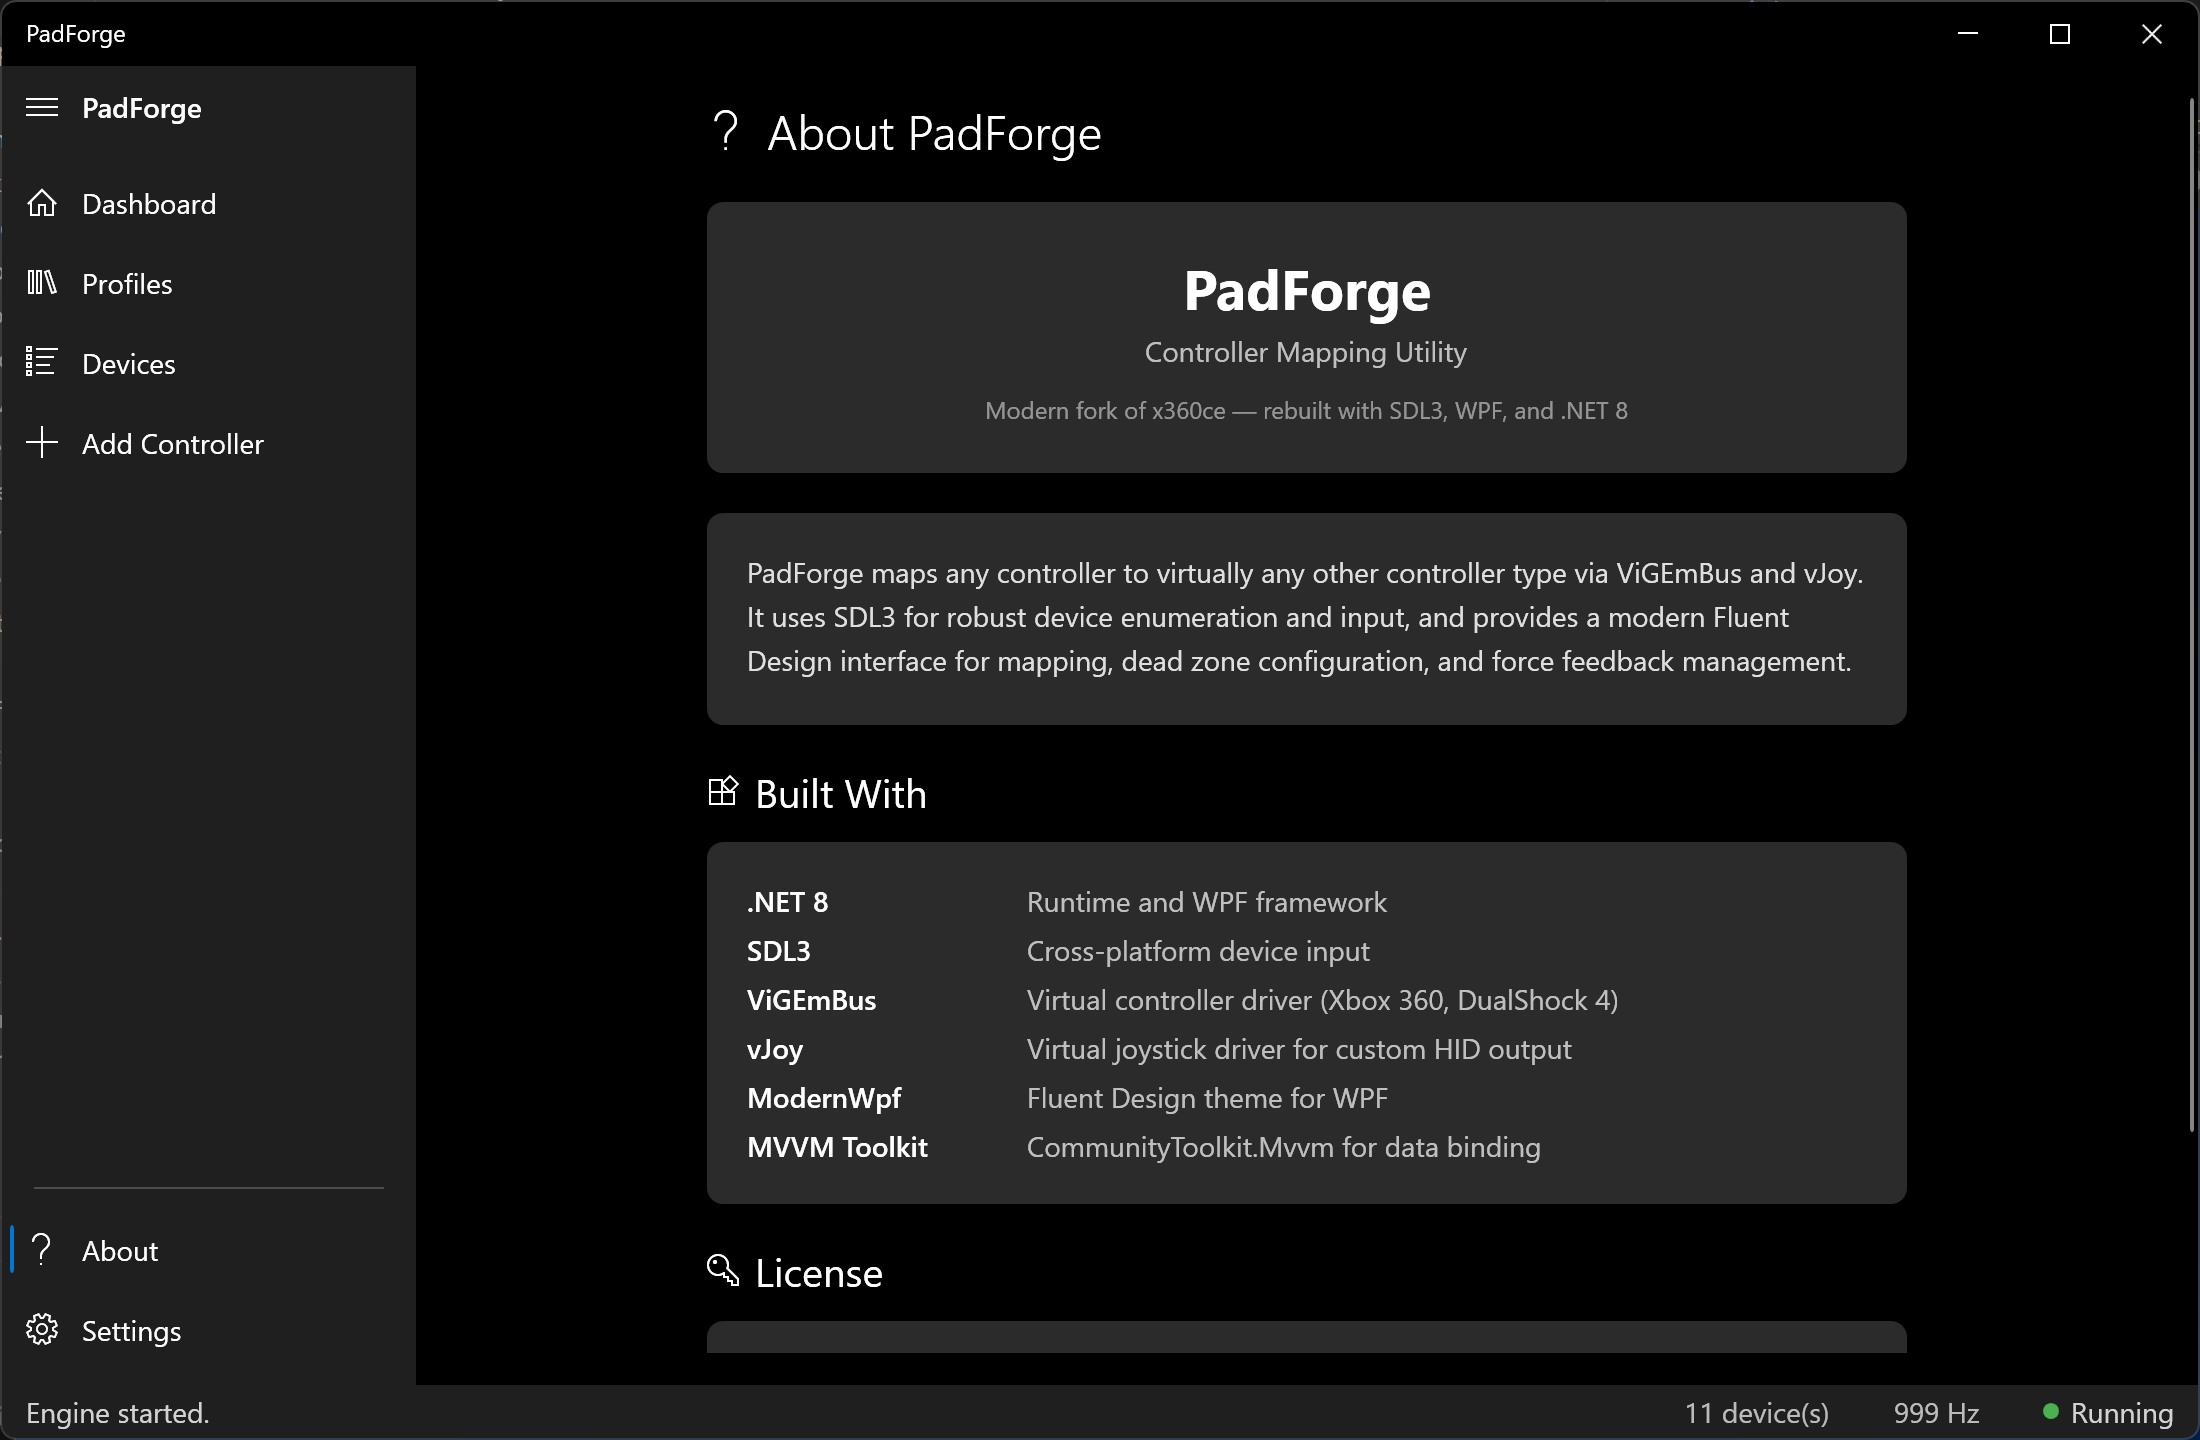
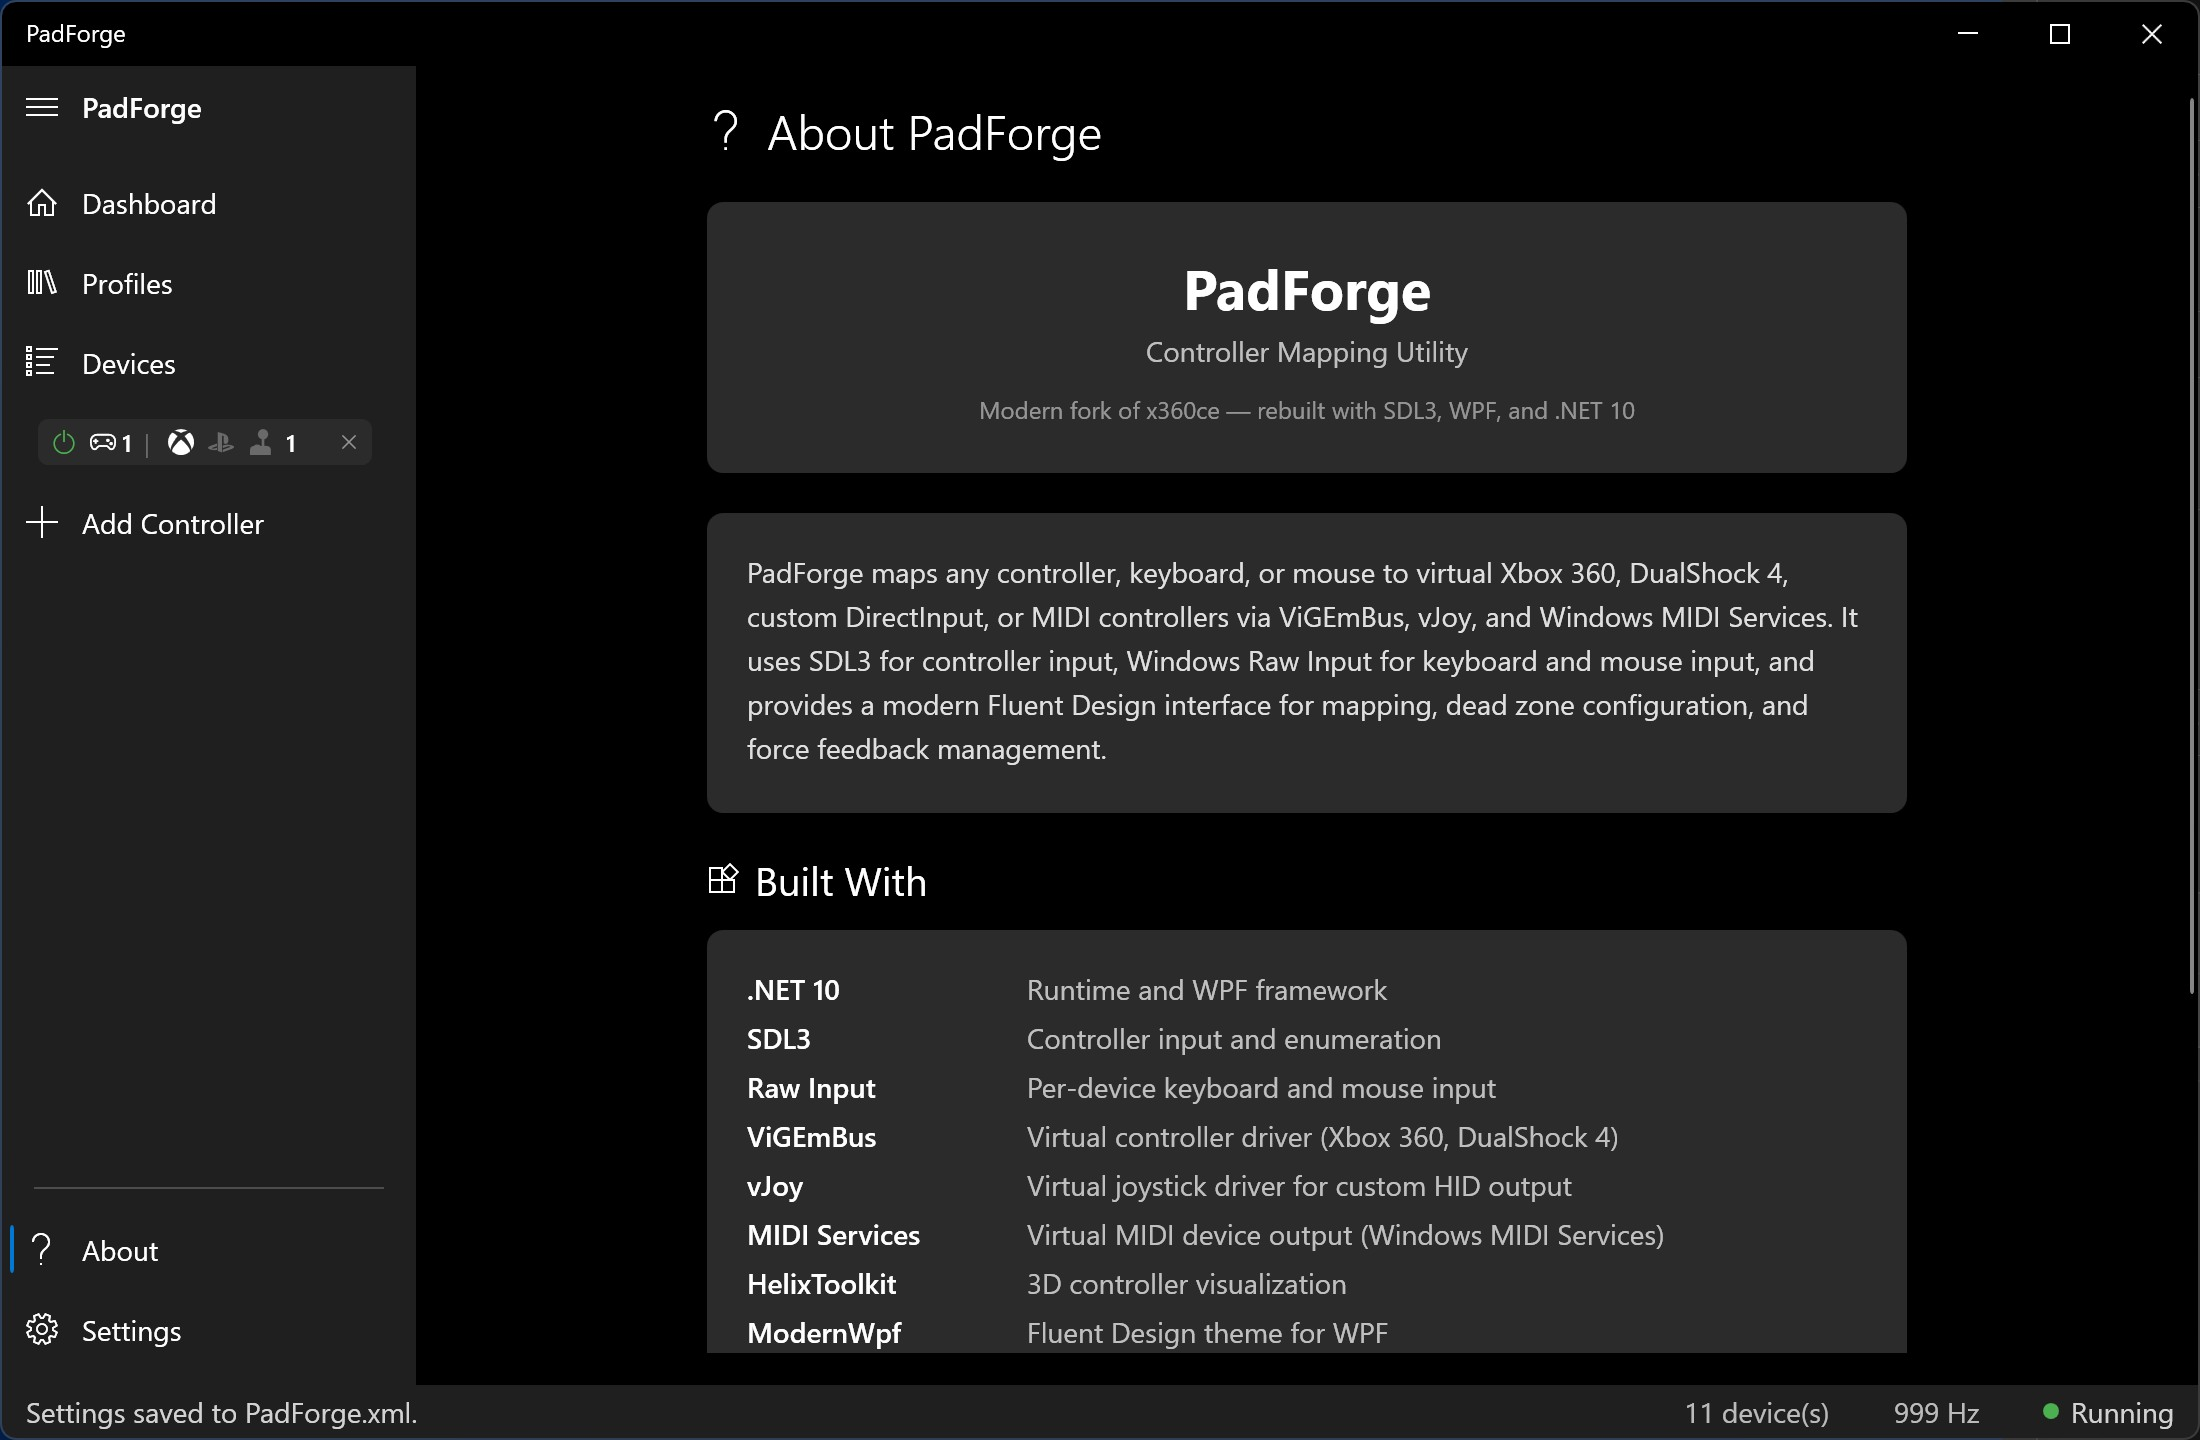
Update About page, README, and LICENSE for accuracy
- About page: .NET 8 → .NET 10, add Raw Input, MIDI Services, HelixToolkit
- About description: clarify SDL3 for controllers, Raw Input for kb/mouse,
  add MIDI and Windows MIDI Services
- README: fix SDL3 table (controllers only, not kb/mouse), add Raw Input
  and Windows MIDI Services to subtitle
- README license section: add Windows MIDI Services and HidHide
- LICENSE: copyright 2025 → 2025-2026, add Windows MIDI Services attribution
- Retake About page screenshot

diff --git a/PadForge.App/Views/AboutPage.xaml b/PadForge.App/Views/AboutPage.xaml
@@ -22,7 +22,7 @@
                                HorizontalAlignment="Center" Margin="0,4,0,12"/>
 
                     <TextBlock HorizontalAlignment="Center" Opacity="0.5" FontSize="12">
-                        <Run Text="Modern fork of x360ce — rebuilt with SDL3, WPF, and .NET 8"/>
+                        <Run Text="Modern fork of x360ce — rebuilt with SDL3, WPF, and .NET 10"/>
                     </TextBlock>
                 </StackPanel>
             </Border>
@@ -30,10 +30,12 @@
             <!-- Description -->
             <Border Style="{StaticResource CardBorder}" Padding="20" Margin="0,0,0,20">
                 <TextBlock TextWrapping="Wrap" LineHeight="22" Opacity="0.85">
-                    PadForge maps any controller to virtually any other controller type
-                    via ViGEmBus and vJoy. It uses SDL3 for robust device enumeration and input,
-                    and provides a modern Fluent Design interface for mapping, dead zone
-                    configuration, and force feedback management.
+                    PadForge maps any controller, keyboard, or mouse to virtual Xbox 360,
+                    DualShock 4, custom DirectInput, or MIDI controllers via ViGEmBus, vJoy,
+                    and Windows MIDI Services. It uses SDL3 for controller input, Windows
+                    Raw Input for keyboard and mouse input, and provides a modern Fluent
+                    Design interface for mapping, dead zone configuration, and force feedback
+                    management.
                 </TextBlock>
             </Border>
 
@@ -56,32 +58,50 @@
                         <RowDefinition Height="Auto"/>
                         <RowDefinition Height="Auto"/>
                         <RowDefinition Height="Auto"/>
+                        <RowDefinition Height="Auto"/>
+                        <RowDefinition Height="Auto"/>
+                        <RowDefinition Height="Auto"/>
                     </Grid.RowDefinitions>
 
-                    <TextBlock Text=".NET 8" FontWeight="SemiBold"/>
+                    <TextBlock Text=".NET 10" FontWeight="SemiBold"/>
                     <TextBlock Grid.Column="1" Text="Runtime and WPF framework" Opacity="0.7"/>
 
                     <TextBlock Grid.Row="1" Text="SDL3" FontWeight="SemiBold" Margin="0,6,0,0"/>
-                    <TextBlock Grid.Row="1" Grid.Column="1" Text="Cross-platform device input"
+                    <TextBlock Grid.Row="1" Grid.Column="1" Text="Controller input and enumeration"
                                Opacity="0.7" Margin="0,6,0,0"/>
 
-                    <TextBlock Grid.Row="2" Text="ViGEmBus" FontWeight="SemiBold" Margin="0,6,0,0"/>
+                    <TextBlock Grid.Row="2" Text="Raw Input" FontWeight="SemiBold" Margin="0,6,0,0"/>
                     <TextBlock Grid.Row="2" Grid.Column="1"
+                               Text="Per-device keyboard and mouse input"
+                               Opacity="0.7" Margin="0,6,0,0"/>
+
+                    <TextBlock Grid.Row="3" Text="ViGEmBus" FontWeight="SemiBold" Margin="0,6,0,0"/>
+                    <TextBlock Grid.Row="3" Grid.Column="1"
                                Text="Virtual controller driver (Xbox 360, DualShock 4)"
                                Opacity="0.7" Margin="0,6,0,0"/>
 
-                    <TextBlock Grid.Row="3" Text="vJoy" FontWeight="SemiBold" Margin="0,6,0,0"/>
-                    <TextBlock Grid.Row="3" Grid.Column="1"
+                    <TextBlock Grid.Row="4" Text="vJoy" FontWeight="SemiBold" Margin="0,6,0,0"/>
+                    <TextBlock Grid.Row="4" Grid.Column="1"
                                Text="Virtual joystick driver for custom HID output"
                                Opacity="0.7" Margin="0,6,0,0"/>
 
-                    <TextBlock Grid.Row="4" Text="ModernWpf" FontWeight="SemiBold" Margin="0,6,0,0"/>
-                    <TextBlock Grid.Row="4" Grid.Column="1"
+                    <TextBlock Grid.Row="5" Text="MIDI Services" FontWeight="SemiBold" Margin="0,6,0,0"/>
+                    <TextBlock Grid.Row="5" Grid.Column="1"
+                               Text="Virtual MIDI device output (Windows MIDI Services)"
+                               Opacity="0.7" Margin="0,6,0,0"/>
+
+                    <TextBlock Grid.Row="6" Text="HelixToolkit" FontWeight="SemiBold" Margin="0,6,0,0"/>
+                    <TextBlock Grid.Row="6" Grid.Column="1"
+                               Text="3D controller visualization"
+                               Opacity="0.7" Margin="0,6,0,0"/>
+
+                    <TextBlock Grid.Row="7" Text="ModernWpf" FontWeight="SemiBold" Margin="0,6,0,0"/>
+                    <TextBlock Grid.Row="7" Grid.Column="1"
                                Text="Fluent Design theme for WPF"
                                Opacity="0.7" Margin="0,6,0,0"/>
 
-                    <TextBlock Grid.Row="5" Text="MVVM Toolkit" FontWeight="SemiBold" Margin="0,6,0,0"/>
-                    <TextBlock Grid.Row="5" Grid.Column="1"
+                    <TextBlock Grid.Row="8" Text="MVVM Toolkit" FontWeight="SemiBold" Margin="0,6,0,0"/>
+                    <TextBlock Grid.Row="8" Grid.Column="1"
                                Text="CommunityToolkit.Mvvm for data binding"
                                Opacity="0.7" Margin="0,6,0,0"/>
                 </Grid>
@@ -101,6 +121,7 @@
                     2D controller assets from Gamepad-Asset-Pack by AL2009man (MIT).
                     Original codebase forked from x360ce (MIT).
                     SDL3 is licensed under the zlib License.
+                    Windows MIDI Services is licensed under the MIT License.
                     ViGEmBus, vJoy, HelixToolkit, and ModernWpf are licensed under the MIT License.
                 </TextBlock>
             </Border>

diff --git a/README.md b/README.md
@@ -2,7 +2,7 @@
 
 Modern controller mapping utility for Windows. Maps any controller, keyboard, or mouse to virtual Xbox 360, DualShock 4, or custom DirectInput controllers that games see as real hardware.
 
-Built with SDL3, ViGEmBus, vJoy, HelixToolkit, .NET 10 WPF, and Fluent Design. Modern fork of [x360ce](https://github.com/x360ce/x360ce).
+Built with SDL3, Windows Raw Input, ViGEmBus, vJoy, Windows MIDI Services, HelixToolkit, .NET 10 WPF, and Fluent Design. Modern fork of [x360ce](https://github.com/x360ce/x360ce).
 
 ## Features
 
@@ -104,7 +104,7 @@ PadForge stands on the shoulders of these projects. Please consider supporting t
 | Project | Role in PadForge | License |
 |---|---|---|
 | [x360ce](https://github.com/x360ce/x360ce) | Original codebase this project was forked from | MIT |
-| [SDL3](https://github.com/libsdl-org/SDL) | All device input — joystick, gamepad, keyboard, mouse, sensors | zlib |
+| [SDL3](https://github.com/libsdl-org/SDL) | Controller input — joystick, gamepad, and sensor enumeration and reading | zlib |
 | [ViGEmBus](https://github.com/nefarius/ViGEmBus) | Virtual Xbox 360 and DualShock 4 controller driver | MIT |
 | [Nefarius.ViGEm.Client](https://github.com/nefarius/ViGEm.NET) | .NET client library for ViGEmBus | MIT |
 | [vJoy](https://github.com/BrunnerInnovation/vJoy) | Custom DirectInput joystick/gamepad driver with configurable HID descriptors and force feedback | MIT |
@@ -132,5 +132,7 @@ This project is licensed under **CC BY-NC-SA 4.0** (Creative Commons Attribution
 - **SDL3** is licensed under the [zlib License](https://github.com/libsdl-org/SDL/blob/main/LICENSE.txt)
 - **ViGEmBus** and **Nefarius.ViGEm.Client** are licensed under the MIT License
 - **vJoy** is licensed under the MIT License
+- **Windows MIDI Services** is licensed under the MIT License
+- **HidHide** is licensed under the MIT License
 
 See [LICENSE](LICENSE) for the full license text.
